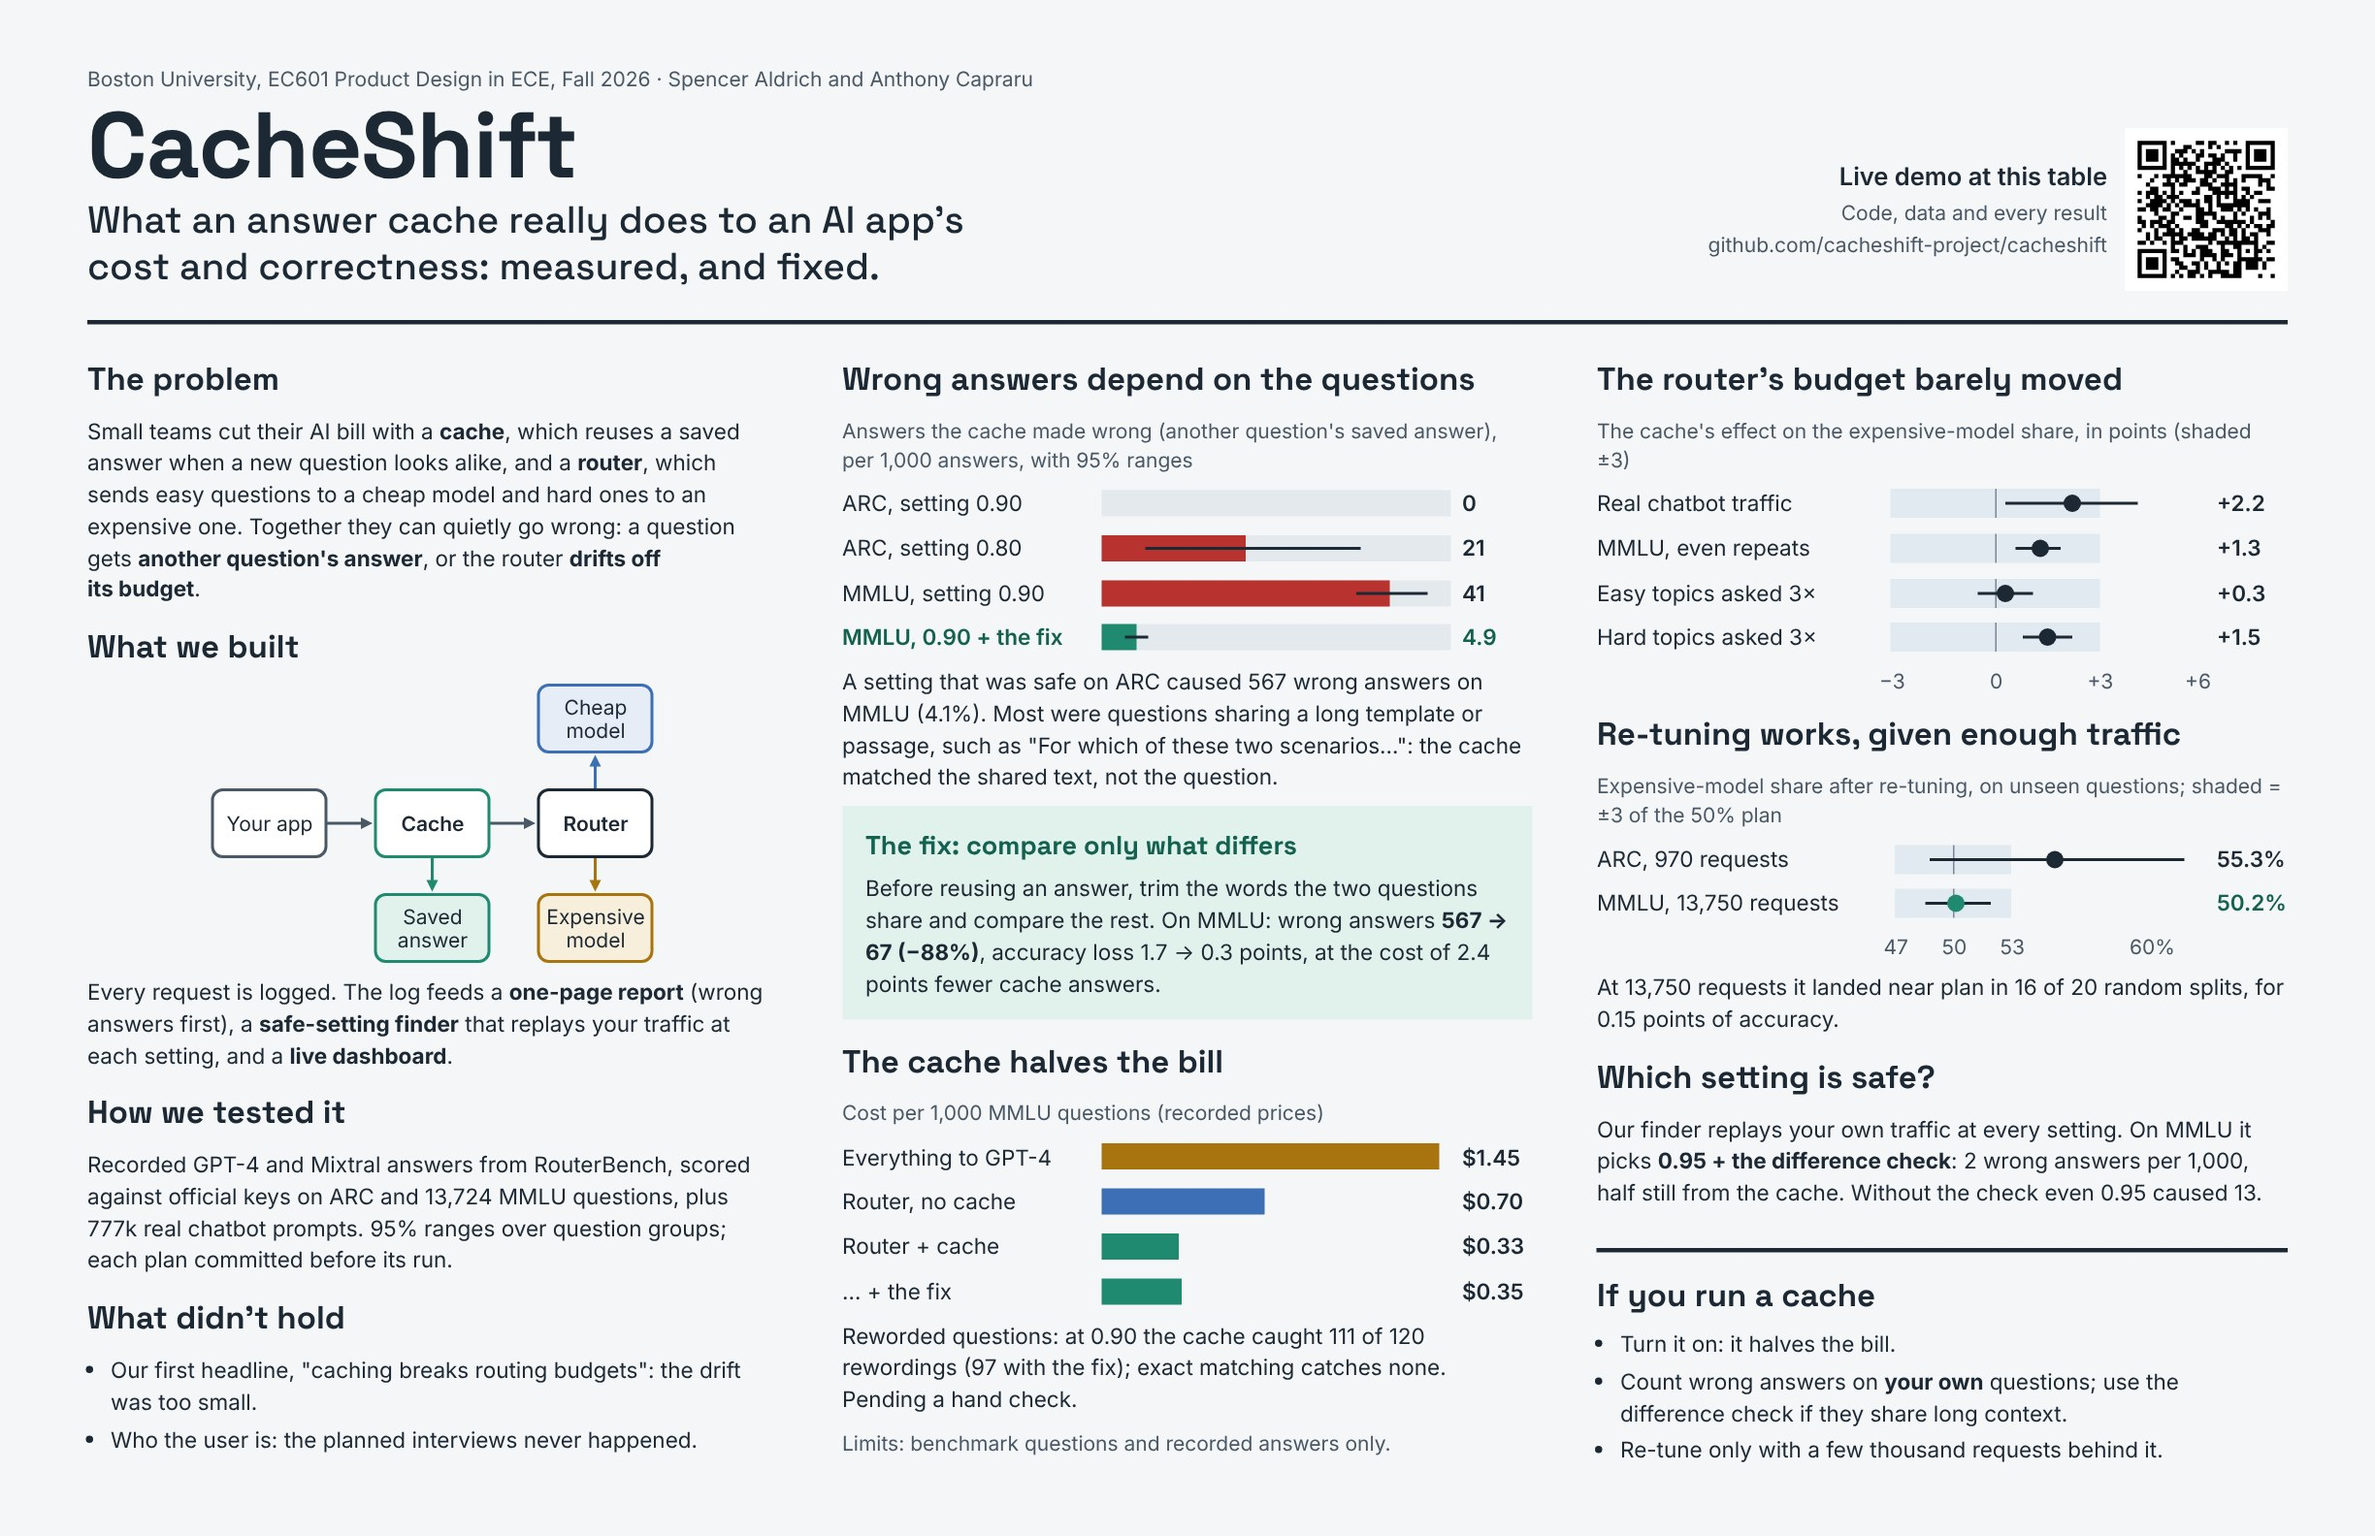
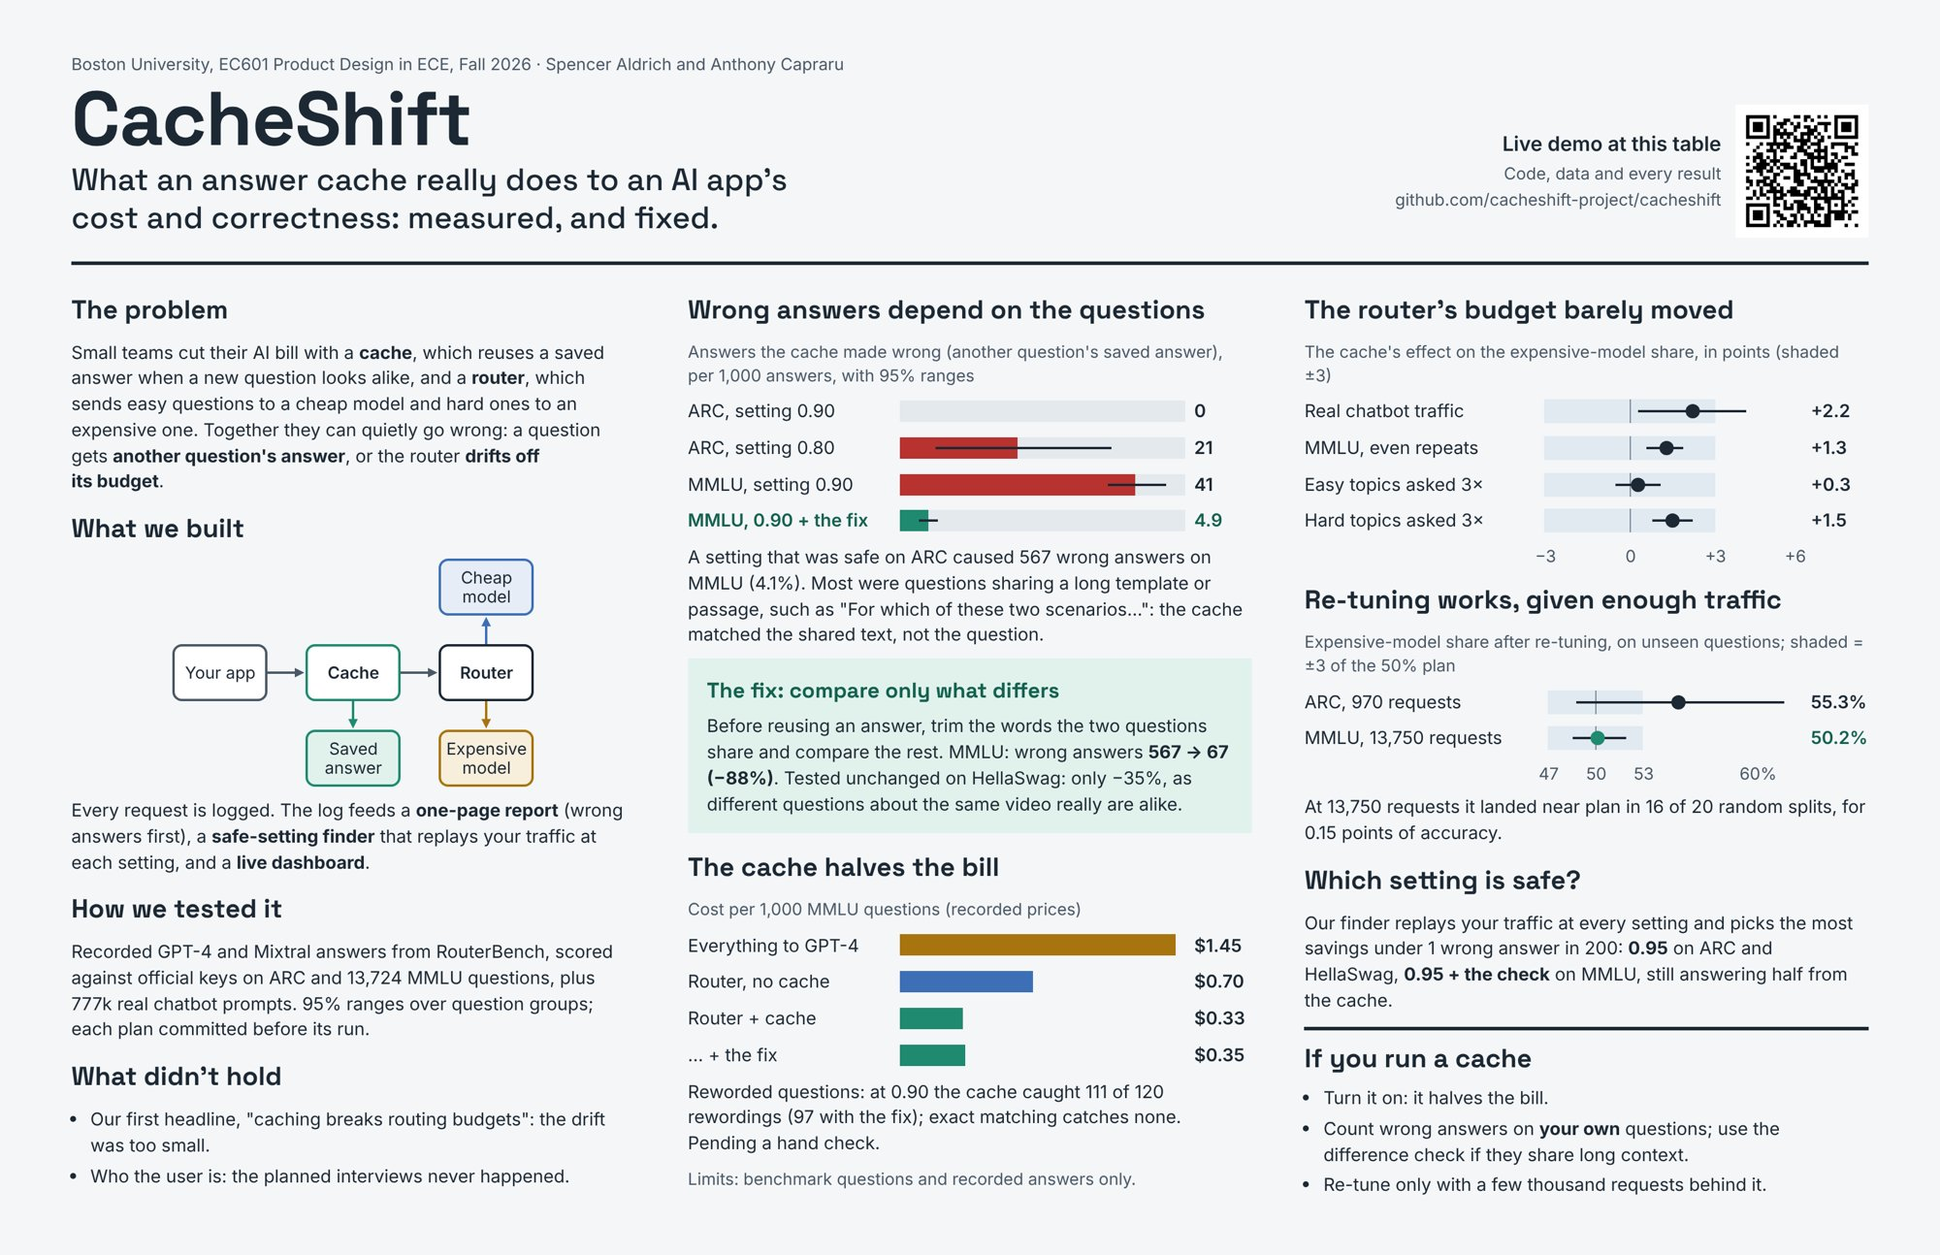
Poster: add HellaSwag result and per-dataset safe settings
Claude-Session: https://claude.ai/code/session_01GioLAAaYAGLNK4RQ84y99o

diff --git a/docs/poster/CacheShift_Poster.dc.html b/docs/poster/CacheShift_Poster.dc.html
@@ -78,7 +78,7 @@ a{color:#1F6E5A}a:hover{color:#13614E}
 
 <div style="background: #E1F2EC; padding: 14px 16px; display: flex; flex-direction: column; gap: 6px">
 <h3 style="margin: 0; font-family: 'Space Grotesk', Inter, sans-serif; font-size: 18px; font-weight: 700; color: #13614E">The fix: compare only what differs</h3>
-<p style="margin: 0; text-wrap: pretty">Before reusing an answer, trim the words the two questions share and compare the rest. On MMLU: wrong answers <b>567 → 67 (−88%)</b>, accuracy loss 1.7 → 0.3 points, at the cost of 2.4 points fewer cache answers.</p>
+<p style="margin: 0; text-wrap: pretty">Before reusing an answer, trim the words the two questions share and compare the rest. MMLU: wrong answers <b>567 → 67 (−88%)</b>. Tested unchanged on HellaSwag: only −35%, as different questions about the same video really are alike.</p>
 </div>
 
 <h2 style="margin: 4px 0 0; font-family: 'Space Grotesk', Inter, sans-serif; font-size: 22px; font-weight: 700">The cache halves the bill</h2>
@@ -114,9 +114,9 @@ a{color:#1F6E5A}a:hover{color:#13614E}
 <p style="margin: 0; text-wrap: pretty">At 13,750 requests it landed near plan in 16 of 20 random splits, for 0.15 points of accuracy.</p>
 
 <h2 style="margin: 4px 0 0; font-family: 'Space Grotesk', Inter, sans-serif; font-size: 22px; font-weight: 700">Which setting is safe?</h2>
-<p style="margin: 0; text-wrap: pretty">Our finder replays your own traffic at every setting. On MMLU it picks <b>0.95 + the difference check</b>: 2 wrong answers per 1,000, half still from the cache. Without the check even 0.95 caused 13.</p>
+<p style="margin: 0; text-wrap: pretty">Our finder replays your traffic at every setting and picks the most savings under 1 wrong answer in 200: <b>0.95</b> on ARC and HellaSwag, <b>0.95 + the check</b> on MMLU, still answering half from the cache.</p>
 
-<div style="border-top: 3px solid #1C2833; padding-top: 14px; display: flex; flex-direction: column; gap: 6px; margin-top: auto">
+<div style="border-top: 3px solid #1C2833; padding-top: 8px; display: flex; flex-direction: column; gap: 6px; margin-top: auto">
 <h2 style="margin: 0; font-family: 'Space Grotesk', Inter, sans-serif; font-size: 22px; font-weight: 700">If you run a cache</h2>
 <ul style="margin: 0; padding-left: 16px; display: flex; flex-direction: column; gap: 4px">
 <li>Turn it on: it halves the bill.</li>
